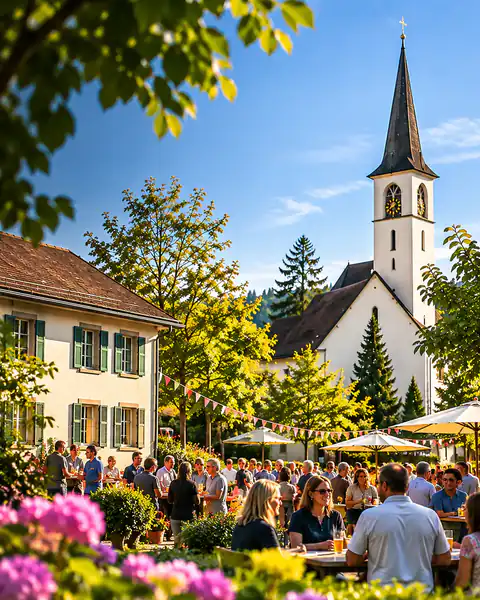
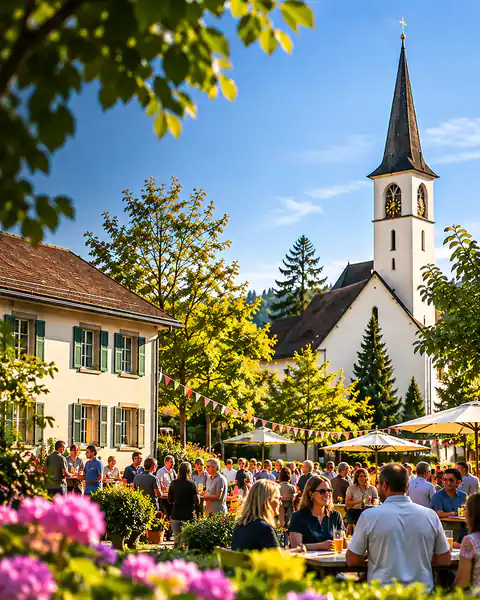
Lighter phone hero image (640px)

diff --git a/index.html b/index.html
@@ -13,7 +13,7 @@
 
   <!-- Hero image (LCP): start downloading immediately -->
   <link rel="preload" as="image" fetchpriority="high" media="(max-width: 767.98px)"
-        imagesrcset="assets/img/hero-m-480.webp 480w, assets/img/hero-m-720.webp 720w" imagesizes="100vw">
+        imagesrcset="assets/img/hero-m-480.webp 480w, assets/img/hero-m-640.webp 640w" imagesizes="100vw">
   <link rel="preload" as="image" fetchpriority="high" media="(min-width: 768px) and (max-width: 1023.98px)"
         imagesrcset="assets/img/hero-m-960.webp 960w, assets/img/hero-m-1440.webp 1440w" imagesizes="100vw">
   <link rel="preload" as="image" fetchpriority="high" media="(min-width: 1024px)"
@@ -93,7 +93,7 @@
         <picture>
           <source media="(min-width: 1024px)" srcset="assets/img/hero-d-1280.webp 1280w, assets/img/hero-d-1920.webp 1920w, assets/img/hero-d-2560.webp 2560w" sizes="100vw" width="2560" height="1280">
           <source media="(min-width: 768px)" srcset="assets/img/hero-m-960.webp 960w, assets/img/hero-m-1440.webp 1440w" sizes="100vw" width="1440" height="1800">
-          <img src="assets/img/hero-m-720.webp" srcset="assets/img/hero-m-480.webp 480w, assets/img/hero-m-720.webp 720w" sizes="100vw" width="720" height="900"
+          <img src="assets/img/hero-m-640.webp" srcset="assets/img/hero-m-480.webp 480w, assets/img/hero-m-640.webp 640w" sizes="100vw" width="640" height="800"
                alt="Dorffest in Lindau: Menschen an Festtischen unter Sonnenschirmen vor der Kirche"
                fetchpriority="high" decoding="async">
         </picture>
